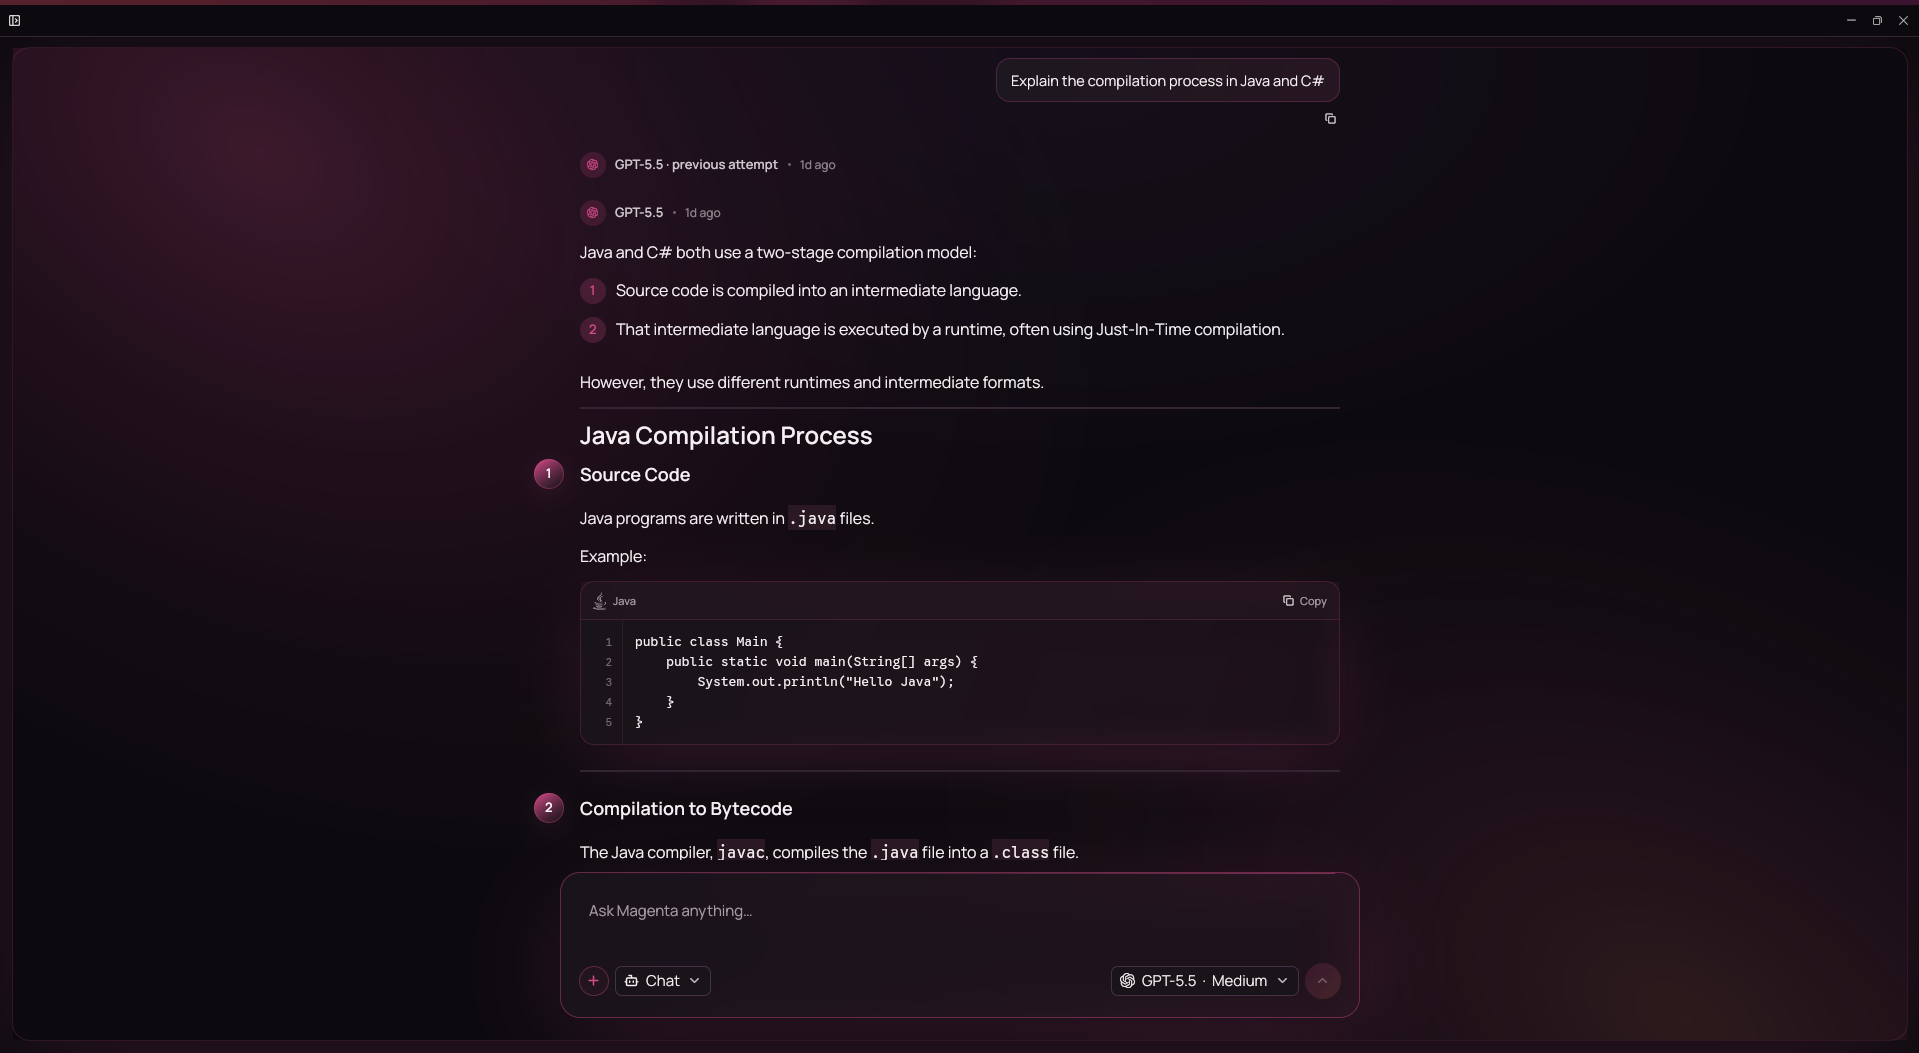
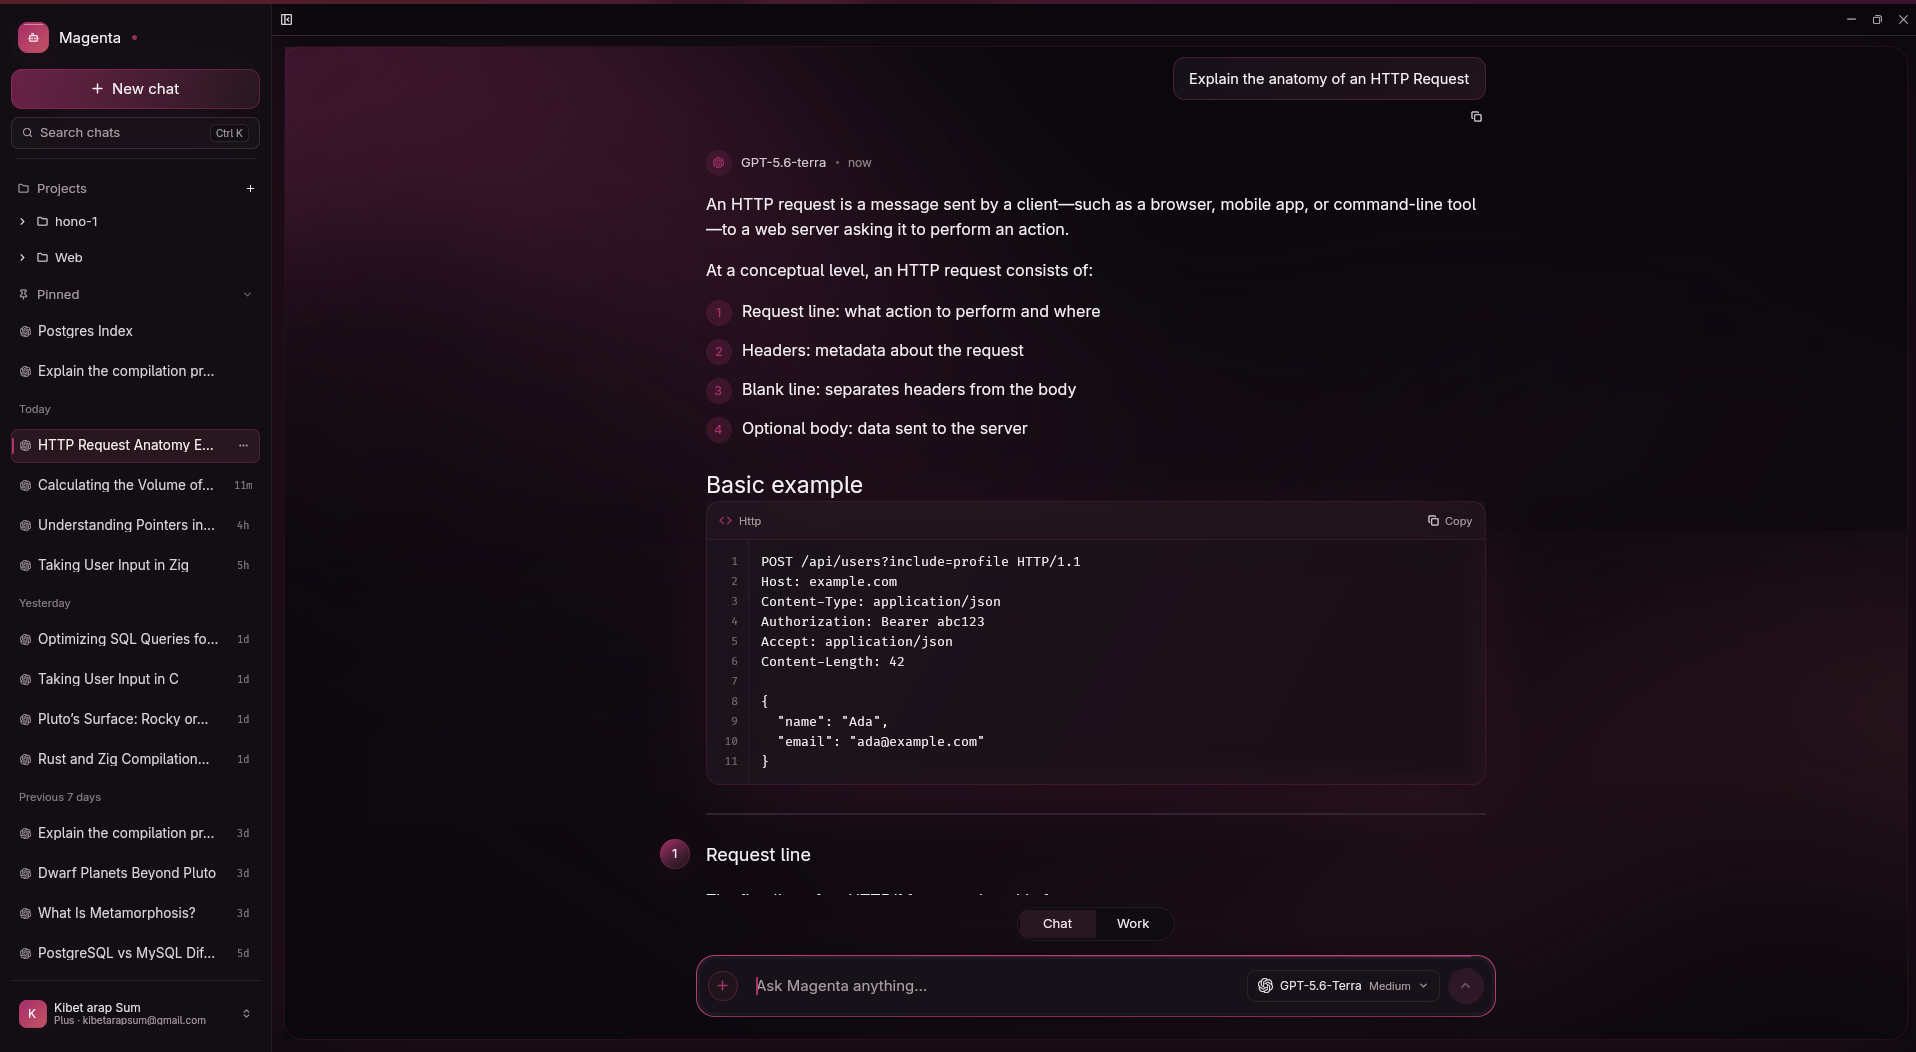
Document current composer and repository UX
Update the README to describe the Chat and Work composer split, independent drafts, Git-aware Changes panel, and layered visual treatment.

Refresh the conversation screenshot so the documented product surface matches the current application.

diff --git a/README.md b/README.md
@@ -4,12 +4,13 @@ Magenta is an experimental native AI chat and workspace client written in Rust
 with GPUI through [GPUI Kit](https://github.com/longbridge/gpui-kit). The workspace
 currently pins `gpui-kit` to `0.6.1`.
 
-![Magenta conversation with structured Markdown and code](assets/magenta-conversation.png)
+![Magenta conversation with structured Markdown, code, and the Chat composer](assets/magenta-conversation.png)
 
-It combines streaming conversations, local history, and an approval-controlled
-workspace agent in a native desktop window. Linux is the platform exercised by
-this repository. The production provider is OpenAI through ChatGPT browser
-sign-in; provider icons in the UI do not imply additional integrations.
+It combines streaming conversations, local history, a Git-aware Changes panel,
+and an approval-controlled workspace agent in a native desktop window. Linux is
+the platform exercised by this repository. The production provider is OpenAI
+through ChatGPT browser sign-in; provider icons in the UI do not imply
+additional integrations.
 
 ## Start here
 
@@ -22,9 +23,11 @@ cargo run --locked
 ```
 
 Connect your ChatGPT account from the sidebar account menu or Settings. Choose a
-model and its supported effort level in the composer. For Agent mode, add a
-project or choose a workspace directory first. Commands require Bubblewrap and
-a successful isolation probe; file tools remain available without it.
+model and its supported effort level in the composer. **Chat** provides a compact
+conversation input; **Work** expands the composer with workspace, Files, and
+Changes controls while preserving a separate draft. For Work mode, add a project
+or choose a workspace directory first. Commands require Bubblewrap and a
+successful isolation probe; file tools remain available without it.
 
 ## Current features
 
@@ -37,12 +40,16 @@ a successful isolation probe; file tools remain available without it.
   50 messages; the conversation view retains at most 150 rendered messages.
 - Model-aware context budgeting that selects recent whole turns independently
   of the visible page and indicates when older context was omitted.
+- Distinct Chat and Work composers with independent drafts, a unified model and
+  effort picker, and workspace controls that appear only for agentic work.
 - Registered projects, project conversations, and a read-only code workbench
   with a collapsible explorer, independent file tabs, breadcrumbs, search, and
   folding. Switching conversations closes and clears the workbench session.
 - File and unified-diff view modes for agent changes, change status, hunk
   navigation, and a per-tab view selection. Diff review is read-only; approvals
   remain in the conversation.
+- A Git-aware Changes panel with repository status, staged and unstaged groups,
+  file diffs, per-file and bulk stage/unstage actions, and confirmed commits.
 - Workspace listing, literal text search, bounded reads, file creation, and
   patch previews. Ordinary file edits can be approved individually or for the
   current run; protected reads and commands still need individual approval.
@@ -51,8 +58,9 @@ a successful isolation probe; file tools remain available without it.
   and otherwise collapse automatically unless manually overridden.
 - Persistent, categorized response failures with relevant recovery actions,
   preserved partial output, and copyable, allowlisted diagnostic details.
-- Warm light/dark themes, an accent-colored sidebar and composer, and separate
-  UI, code, and math typography preferences in a TOML-backed settings window.
+- Warm light/dark themes, a layered dark surface system, a subtle animated fluid
+  field, and separate UI, code, and math typography preferences in a TOML-backed
+  settings window.
 
 The full-height sidebar remains separate from the main panel: **the titlebar
 must not extend over the sidebar**. This layout rule applies to future UI work
@@ -75,8 +83,8 @@ verification commands. The package names below are also the names accepted by
 | [magenta-application](crates/application/README.md) | Sending, regeneration, retry, agent orchestration, history and project workflows | core |
 | [magenta-providers](crates/providers/README.md) | OpenAI authentication, model discovery, streaming; deterministic demo provider | core |
 | [magenta-storage](crates/storage/README.md) | SQLite history/projects, migrations, attachments, TOML settings | core |
-| [magenta-workspace](crates/workspace/README.md) | Workspace file access, patch commits, Bubblewrap command execution | core |
-| [magenta-ui](crates/ui/README.md) | GPUI views, stream lifecycle, recovery presentation, themes and settings | application, core |
+| [magenta-workspace](crates/workspace/README.md) | Workspace file access, repository status/diffs/staging/commits, Bubblewrap commands | core |
+| [magenta-ui](crates/ui/README.md) | GPUI conversations, Chat/Work composers, workbench, Changes panel, themes and settings | application, core |
 | [magenta-desktop](crates/desktop/README.md) | `magenta` executable, adapter wiring, assets, windows and diagnostics | All six library crates |
 
 See also the [development guide](docs/development.md) and
@@ -217,9 +225,10 @@ documentation builds, and the manual review checklist.
 
 Additional providers, non-image attachments, remote image URLs, clipboard image
 capture, and rich reasoning/citation events are not implemented. The workbench
-does not provide direct editing/saving, Git staging, branch comparison, or
-side-by-side diffs. Agent diff state is session-local, and tab sessions are not
-restored after switching conversations or restarting.
+does not provide direct editing/saving, branch operations or comparison, or
+side-by-side diffs. Repository operations are limited to status, diffs,
+staging/unstaging, and commits. Agent diff state is session-local, and tab
+sessions are not restored after switching conversations or restarting.
 
 Context selection uses conservative estimates, not an exact provider tokenizer
 or conversation summarization. Budgeting is applied when preparing a turn or
